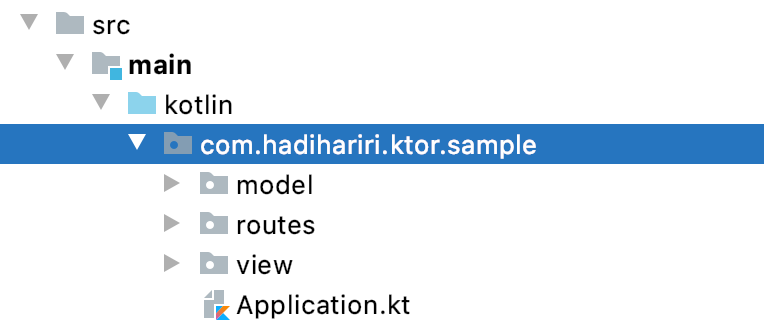
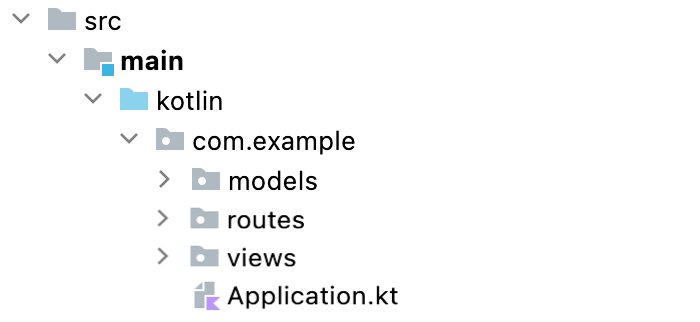
KTOR-2332 update code snippets and images

diff --git a/topics/Structuring_Applications.md b/topics/Structuring_Applications.md
@@ -2,11 +2,11 @@
 
 <excerpt>Learn how to structure your application to keep it maintainable as the application grows.</excerpt>
 
-One of Ktor’s strong points is in the flexibility it offers in terms of structuring our application. Different to many other server-side frameworks, it doesn't force us into a specific pattern such as having to place all cohesive routes in a single class name `CustomerController` for instance. While it is certainly possible, it's not required.
+One of Ktor's strong points is in the flexibility it offers in terms of structuring our application. Different to many other server-side frameworks, it doesn't force us into a specific pattern such as having to place all cohesive routes in a single class name `CustomerController` for instance. While it is certainly possible, it's not required.
 
 In this section we're going to examine the different options we have to structure our applications.
 
-## Grouping by file
+## Group by file {id="group_by_file"}
 
 One approach is to group routes that are related in a single file. If our application is dealing with Customers and Orders for instance, this would mean having a `CustomerRoutes.kt` and an `OrderRoutes.kt` file:
 
@@ -30,14 +30,14 @@ fun Route.createCustomerRoute() {
 <tab title="OrderRoutes.kt">
 
 ```kotlin
-fun Route.orderByIdRoute() {
+fun Route.getOrderRoute() {
     get("/order/{id}") {
-    
+
     }
 }
 
-fun Route.createOrderRoute() {
-    post("/order") {
+fun Route.totalizeOrderRoute() {
+    get("/order/{id}/total") {
 
     }
 }
@@ -47,26 +47,27 @@ fun Route.createOrderRoute() {
 
 
 What would happen with sub-routes? Such as order/shipment for instance? It somewhat depends on what we understand by this URL. 
-If we’re talking about these as resources (which they are), shipment itself could therefore be a resource, and could easily map 
+If we're talking about these as resources (which they are), shipment itself could therefore be a resource, and could easily map 
 to another file `ShipmentRoutes.kt`.
 
-## Grouping routing definitions
+## Group routing definitions {id="group_routing_definitions"}
 
-One advantage of this approach is that we can also group the routing definitions, and potentially functionality, per file. For instance, let’s assume 
-that we follow the group per file layout as above. Even though are routes in a different files, we need to declare them at Application level. As such 
-our app would look something like the following:
+One advantage of this approach is that we can also group the routing definitions, and potentially functionality, per file. 
+For instance, let's assume that we follow the group per file layout as above. Even though are routes in a different files, we need to declare them at the Application level. 
+As such our app would look something like the following:
 
 ```kotlin
 routing {
-    customerByIdRoute()
-    createCustomerRoute()
-    orderByIdRoute()
-    createOrderRoute()
+    customerRouting()
+    listOrdersRoute()
+    getOrderRoute()
+    totalizeOrderRoute()
 }
 ```
 
-If we have tons of routes in our app, this could quickly become long and cumbersome. Since we have however routes grouped by file, 
-we can take advantage of this and define the routing in each file also. For this we could create an extension for [Application](https://api.ktor.io/ktor-server/ktor-server-core/ktor-server-core/io.ktor.application/-application/index.html) and define the routes:
+If we have tons of routes in our app, this could quickly become long and cumbersome. 
+Since we have however routes grouped by file, we can take advantage of this and define the routing in each file also. 
+For this we could create an extension for [Application](https://api.ktor.io/ktor-server/ktor-server-core/ktor-server-core/io.ktor.application/-application/index.html) and define the routes:
 
 <tabs>
 <tab title="CustomerRoutes.kt">
@@ -74,8 +75,10 @@ we can take advantage of this and define the routing in each file also. For this
 ```kotlin
 fun Application.customerRoutes() {
     routing {
+        listCustomersRoute()
         customerByIdRoute()
-        createCustomerRoute()    
+        createCustomerRoute()
+        deleteCustomerRoute()
     }    
 }
 ```
@@ -85,8 +88,9 @@ fun Application.customerRoutes() {
 ```kotlin
 fun Application.orderRoutes() {
     routing {
-        orderByIdRoute()
-        createOrderRoute()
+        listOrdersRoute()
+        getOrderRoute()
+        totalizeOrderRoute()
     }
 }
 ```
@@ -95,7 +99,7 @@ fun Application.orderRoutes() {
 
 
 
-Now in our actual `Application.module` startup, we’d simply call these functions, without the need for the `routing` block:
+Now in our actual `Application.module` startup, we'd simply call these functions, without the need for the `routing` block:
 
 ```kotlin
 fun Application.module() {
@@ -105,48 +109,48 @@ fun Application.module() {
 }
 ```
 
-We can even take this one step further - install plugins per application, as needed, especially for instance when we’re using 
+We can even take this one step further - install plugins per application, as needed, especially for instance when we're using 
 the Authentication plugin which depends on specific routes. One important note however is that Ktor will detect if a 
 plugin has been installed twice by throwing an `DuplicateApplicationPluginException` exception.
 
 ### A note on using objects
 
-Using objects to group routing functions doesn’t provide any kind of performance or memory benefits, as top-level functions in Ktor are 
-instantiated a single time. While it can provide some sort of cohesive structure where we may want to share common functionality, it isn’t 
-necessary to use objects in case we’re worried about any kind of overhead.
+Using objects to group routing functions doesn't provide any kind of performance or memory benefits, as top-level functions in Ktor are 
+instantiated a single time. While it can provide some sort of cohesive structure where we may want to share common functionality, it isn't 
+necessary to use objects in case we're worried about any kind of overhead.
 
-## Grouping by folders
+## Group by folders {id="group_by_folder"}
 
 Having everything in a single file can become a bit cumbersome as the file grows. 
 What we could do instead is use folders (i.e. packages) to define different areas and then have each route in its own file.
 
-![Grouping by folders](ktor-routing-1.png){width="316"}
+![Grouping by folders](ktor-routing-1.png){width="350"}
 
 While this does provide the advantage of a nice layout when it comes to routes and the individual actions, it could certainly 
 lead to “package overload”, and potentially having tons of filenames named the same, making navigation somewhat more difficult.
- On the other hand, as we’ll see in the next example, we could also merely prefix each file with area (i.e. `CustomerCreate.kt` for instance).
+ On the other hand, as we'll see in the next example, we could also merely prefix each file with area (i.e. `CustomerCreate.kt` for instance).
 
-## Grouping by features
+## Group by features {id="group_by_feature"}
 
 Frameworks such as ASP.NET MVC or Ruby on Rails, have the concept of structuring applications using three folders - Model, View, and Controllers (Routes).
 
-![Model View Controller](ktor-routing-2.png){width="382"}
+![Model View Controller](ktor-routing-2.png){width="350"}
 
 
-This isn’t far-fetched with the schema we have above which is grouping routes in their own packages/files, our views in the `resources` folder in the case of Ktor, and of course, nothing prevents us from having a package model where we place any data we want to display or respond to HTTP endpoints with.
+This isn't far-fetched with the schema we have above which is grouping routes in their own packages/files, our views in the `resources` folder in the case of Ktor, and of course, nothing prevents us from having a package model where we place any data we want to display or respond to HTTP endpoints with.
 
 While this approach may work and is similar to other frameworks, some would argue that it would make more sense to group things by features, i.e. instead of having the project 
 distributed by routes, models and views, have these groups by specific behaviour/features, i.e. `OrderProcessPayment`, `CustomerAddressChange`, etc.
 
-![Feature grouping](ktor-routing-3.png){width="381"}
+![Feature grouping](ktor-routing-3.png){width="350"}
 
-With many frameworks, this kind of organization of code isn’t viable without seriously hacking the underlying conventions. However, with Ktor, given how flexible it is, 
-in principle it shouldn’t be a problem. With one caveat - when we’re using a [template engine](Working_with_views.md), resources could be an issue. But let’s see how we could solve this.
+With many frameworks, this kind of organization of code isn't viable without seriously hacking the underlying conventions. However, with Ktor, given how flexible it is, 
+in principle it shouldn't be a problem. With one caveat - when we're using a [template engine](Working_with_views.md), resources could be an issue. But let's see how we could solve this.
 
 How this problem is solved very much depends on what is used for Views. If our application is merely an HTTP backend, and we're using client-side technology, then usually all rendering is 
-client-side. If we’re using Kotlinx.HTML, then once again it’s not an issue as the page can be generated from any Kotlin file placed anywhere. 
+client-side. If we're using Kotlinx.HTML, then once again it's not an issue as the page can be generated from any Kotlin file placed anywhere. 
 
-The issue arises more when we’re using a templating engine such as FreeMarker. These are peculiar in how and where template files should be located. 
+The issue arises more when we're using a templating engine such as FreeMarker. These are peculiar in how and where template files should be located. 
 Fortunately some of them offer flexibility in how templates are loaded.
 
 For instance with FreeMarker, we can use a MultiTemplateLoader and then have templates loaded from different locations:
@@ -159,7 +163,7 @@ install(FreeMarker) {
 }
 ```
 
-Obviously this code isn’t ideal as it uses relative paths amongst other things, but it’s not hard to see how we could actually have 
+Obviously this code isn't ideal as it uses relative paths amongst other things, but it's not hard to see how we could actually have 
 this loop through folders and load templates, or even have a custom build action that copies views to our `resources` folder prior to execution. 
 There are quite a number of ways to solve the issue.
 

diff --git a/topics/creating_web_socket_chat.md b/topics/creating_web_socket_chat.md
@@ -31,7 +31,7 @@ Unlike regular HTTP requests, WebSocket connections can be kept open for a long 
 
 WebSockets are also a widely supported technology. All modern browsers can work with WebSockets out of the box, and frameworks to work with WebSockets exist in many programming languages and on many platforms.
 
-Now that we have confidence in the technology we want to use for the implementation of our project, let’s start with the set-up!
+Now that we have confidence in the technology we want to use for the implementation of our project, let's start with the set-up!
 
 
 ## Prerequisites {id="prerequisites"}
@@ -129,7 +129,7 @@ This module, in turn, calls the following extension functions:
 
 ### Implement an echo server {id="implement_echo_server"}
 
-Let’s start our server development journey by building a small “echo” service which accepts WebSocket connections, receives text content, and sends it back to the client. We can implement this service with Ktor by adding the following implementation for `Application.configureSockets()` to `plugins/Sockets.kt`:
+Let's start our server development journey by building a small “echo” service which accepts WebSocket connections, receives text content, and sends it back to the client. We can implement this service with Ktor by adding the following implementation for `Application.configureSockets()` to `plugins/Sockets.kt`:
 
 ```kotlin
 import io.ktor.websocket.*
@@ -182,7 +182,7 @@ With this, we now have a solid foundation for bidirectional communication throug
 
 ## Exchange messages {id="messages"}
 
-Let’s turn our echo server into a real chat server! To do this, we need to make sure messages from the same user are all tagged with the same username. Also, we want to make sure that messages are actually broadcast – sent to all other connected users.
+Let's turn our echo server into a real chat server! To do this, we need to make sure messages from the same user are all tagged with the same username. Also, we want to make sure that messages are actually broadcast – sent to all other connected users.
 
 ### Model connections {id="connections"}
 

diff --git a/topics/Routing_in_Ktor.md b/topics/Routing_in_Ktor.md
@@ -131,6 +131,9 @@ routing {
     post("/customer") {
 
     }
+    get("/order") {
+
+    }
     get("/order/{id}") {
     
     }
@@ -149,8 +152,15 @@ routing {
         get {
 
         }
-
         post {
+
+        }
+    }
+    route("/order") {
+        get {
+
+        }
+        get("/{id}") {
 
         }
     }
@@ -189,39 +199,30 @@ A common pattern is to use extension functions on the `Route` type to define the
 
 ```kotlin
 routing {
-    customerByIdRoute()
-    createCustomerRoute()
-    orderByIdRoute()
-    createOrder()
+    listOrdersRoute()
+    getOrderRoute()
+    totalizeOrderRoute()
 }
 
-fun Route.customerByIdRoute() {
-    get("/customer/{id}") {
+fun Route.listOrdersRoute() {
+    get("/order") {
 
     }
 }
 
-fun Route.createCustomerRoute() {
-    post("/customer") {
-
-    }
-}
-
-fun Route.orderByIdRoute() {
+fun Route.getOrderRoute() {
     get("/order/{id}") {
-    
+        
     }
 }
 
-fun Route.createOrder() {
-    post("/order") {
-
+fun Route.totalizeOrderRoute() {
+    get("/order/{id}/total") {
+        
     }
 }
 ```
 
-For our application to scale when it comes to maintainability, it is recommended to follow certain [Structuring patterns](Structuring_Applications.md).
+You can find the full example demonstrating this approach here: [tutorial-website-interactive](https://github.com/ktorio/ktor-documentation/tree/%current-branch%/codeSnippets/snippets/tutorial-website-interactive).
 
-
-
-
+> For our application to scale when it comes to maintainability, it is recommended to follow certain [Structuring patterns](Structuring_Applications.md).

diff --git a/topics/heroku.md b/topics/heroku.md
@@ -48,7 +48,7 @@ First, you need to specify a port used to listen for incoming requests. Since He
    {style="block"}
 
 ### Step 2: Add a stage task {id="stage"}
-Open the `build.gradle.kts` file and add a custom `stage` task used by Heroku to make an executable that gets run on Heroku’s platform:
+Open the `build.gradle.kts` file and add a custom `stage` task used by Heroku to make an executable that gets run on Heroku's platform:
 ```kotlin
 tasks {
     create("stage").dependsOn("installDist")
